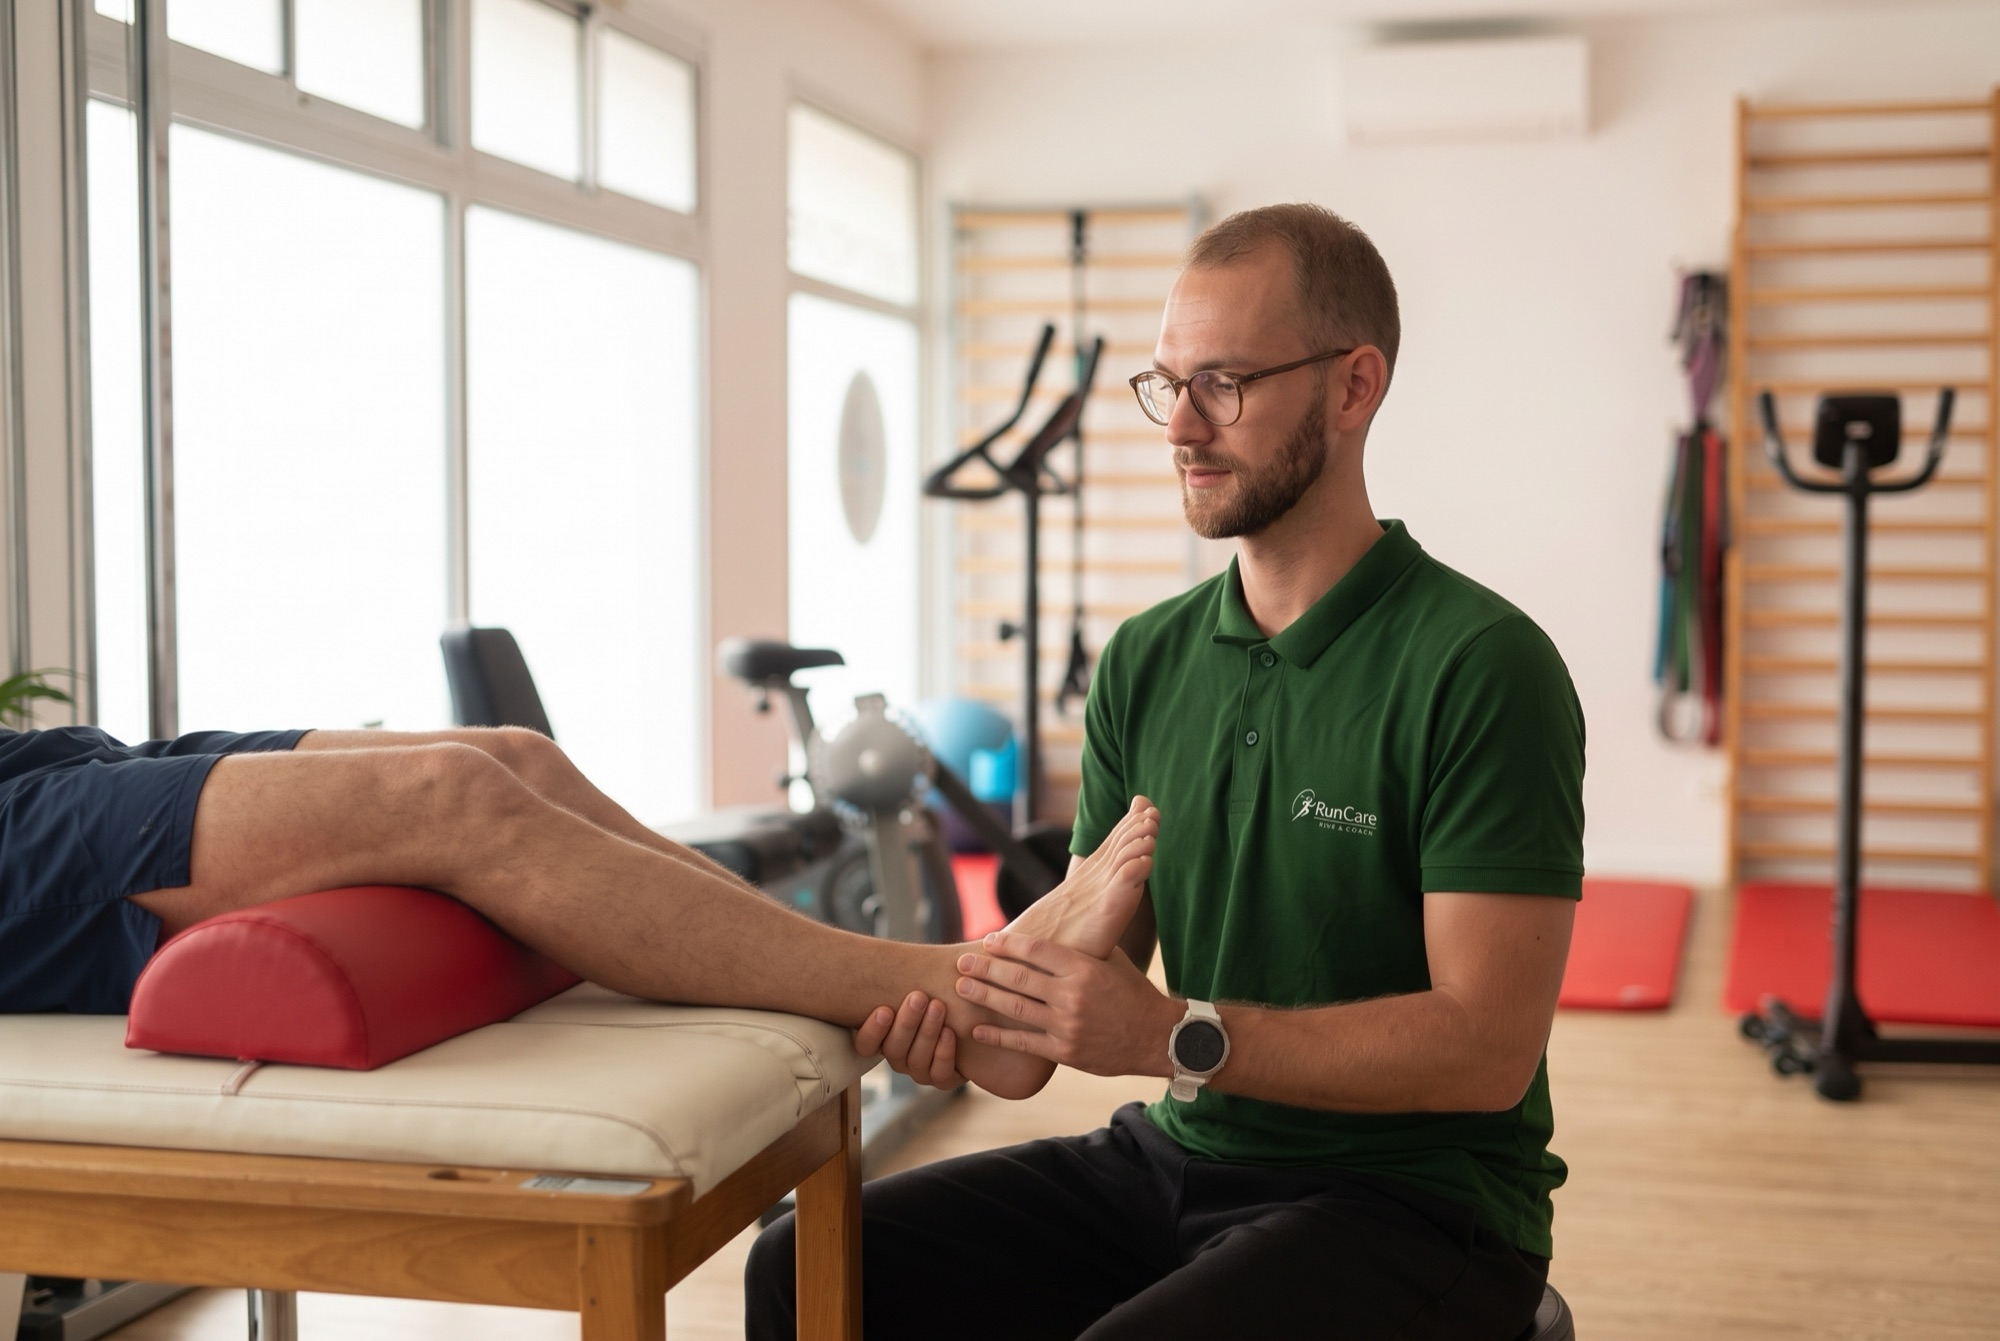
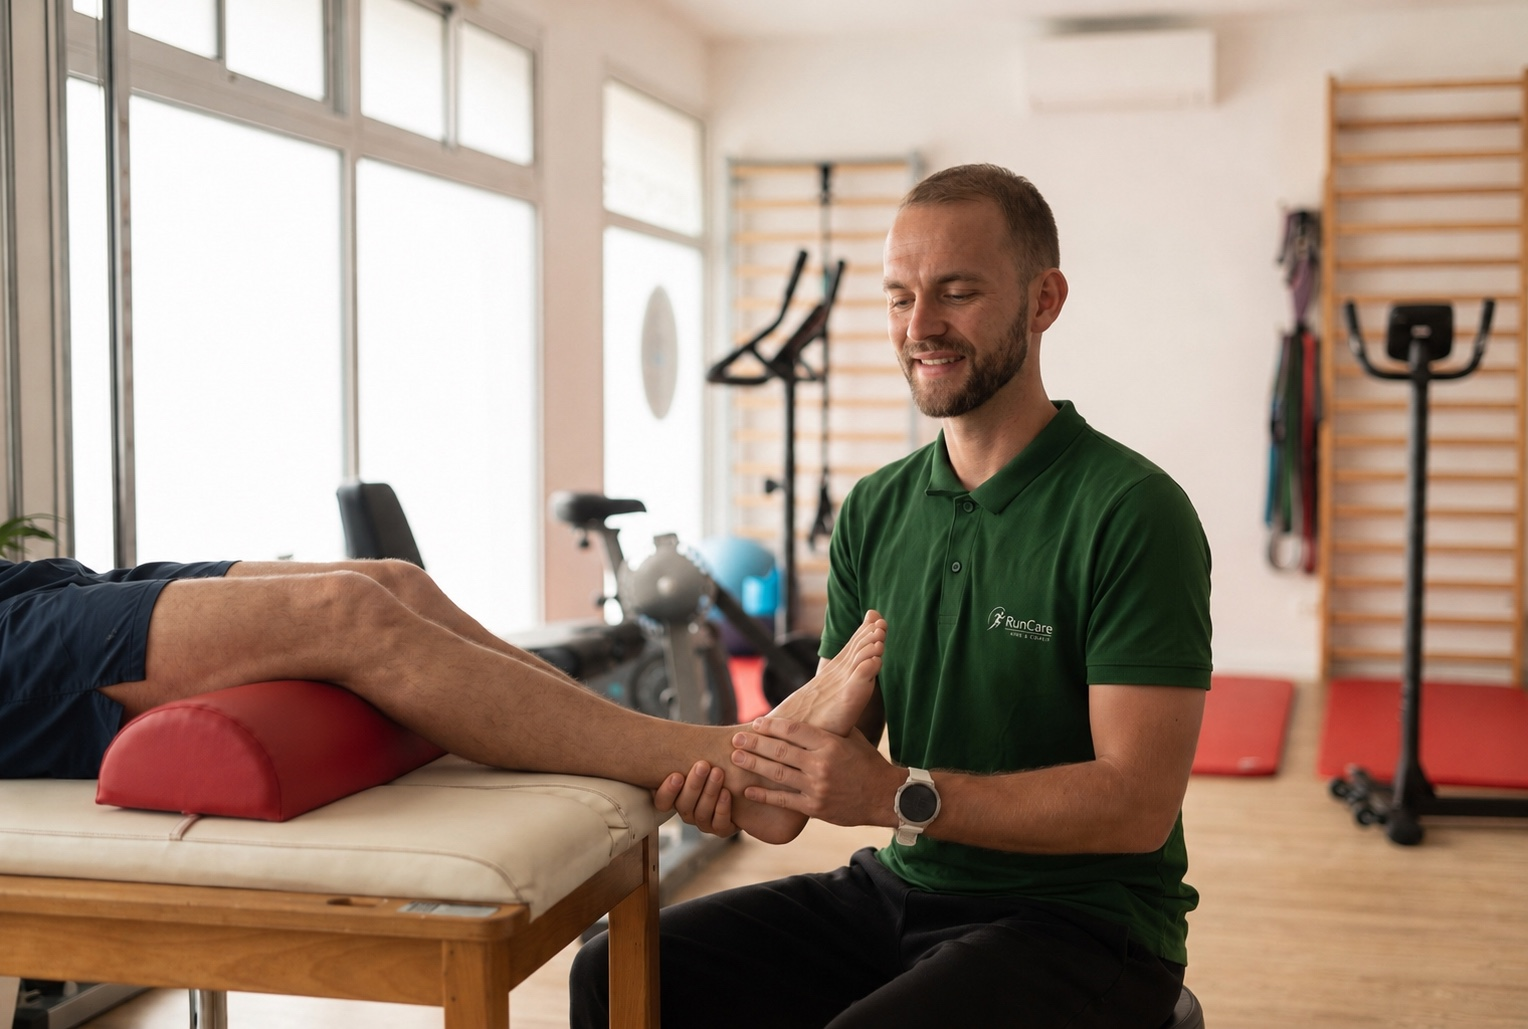
Nouvelles photos (duo, quais miroir d'eau, rééducation Lelio), instructions GitHub dans le brief
Claude-Session: https://claude.ai/code/session_01KWCMukd8KBtrpFtNe49eEy

diff --git a/docs/brief-pour-romain-et-lelio.md b/docs/brief-pour-romain-et-lelio.md
@@ -76,8 +76,33 @@ Tout est en ligne sur https://runcare-site.vercel.app (le domaine définitif sui
 - Le test « Quel coureur es-tu ? » est hébergé sur systeme.io : pensez à vérifier
   cette page aussi (tutoiement, pas de mention « gratuit »).
 
-## À venir de notre côté
+Les trois photos (équipe de l'accueil, quais de Bordeaux, séance de rééducation)
+ont été régénérées et sont en ligne — dites-nous si elles vous conviennent.
 
-- Régénération des trois photos (équipe de l'accueil, quais de Bordeaux plus
-  réalistes, séance de rééducation avec le vrai visage de Lelio).
+## Modifier le site vous-mêmes (textes, tarifs, FAQ, articles, mentions légales)
+
+Le site a une interface d'édition en ligne (Keystatic). Pour y accéder, il faut un
+compte GitHub (gratuit) :
+
+1. Créez un compte sur https://github.com/signup avec votre adresse e-mail
+   (un compte chacun). Choisissez le nom d'utilisateur que vous voulez, par exemple
+   romain-bihel / lelio-renault.
+2. **Envoyez-moi votre nom d'utilisateur GitHub** (ou l'adresse e-mail du compte) :
+   je vous ajoute au projet. Vous recevrez alors une invitation par e-mail —
+   cliquez sur « Accept invitation ».
+3. Ensuite, rendez-vous sur l'adresse du site suivie de `/keystatic`
+   (https://runcare-site.vercel.app/keystatic, puis argonnekinesportsante.fr/keystatic
+   quand le domaine sera branché), connectez-vous avec GitHub, et vous pouvez
+   modifier textes, tarifs, formules, FAQ, articles, coordonnées et mentions
+   légales. Chaque enregistrement met le site à jour en ligne au bout de 1 à
+   2 minutes.
+
+En résumé, ce dont j'ai besoin de votre part :
+- vos noms d'utilisateur GitHub (après création des comptes) ;
+- les infos des mentions légales (structure juridique, SIRET, RPPS, directeur de
+  publication) — ou complétez-les vous-mêmes dans Keystatic une fois l'accès reçu ;
+- les réponses aux questions ci-dessus.
+
+## À venir
+
 - Rattachement du domaine argonnekinesportsante.fr.
